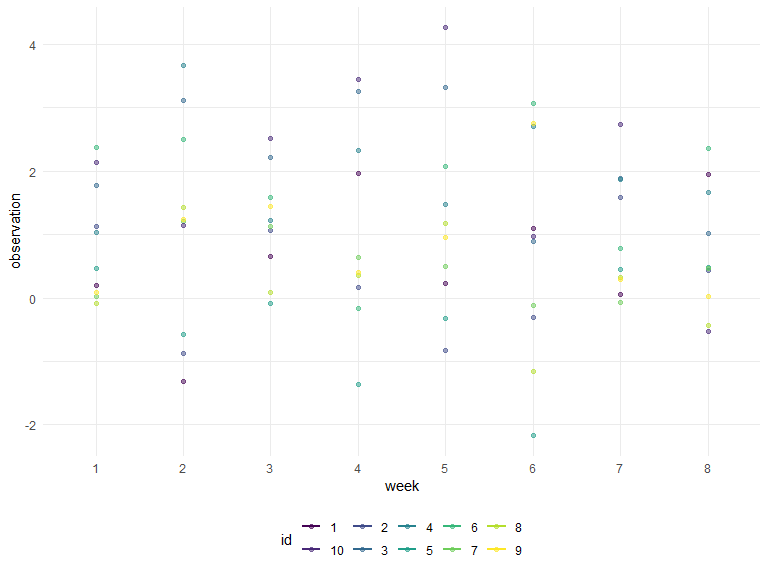
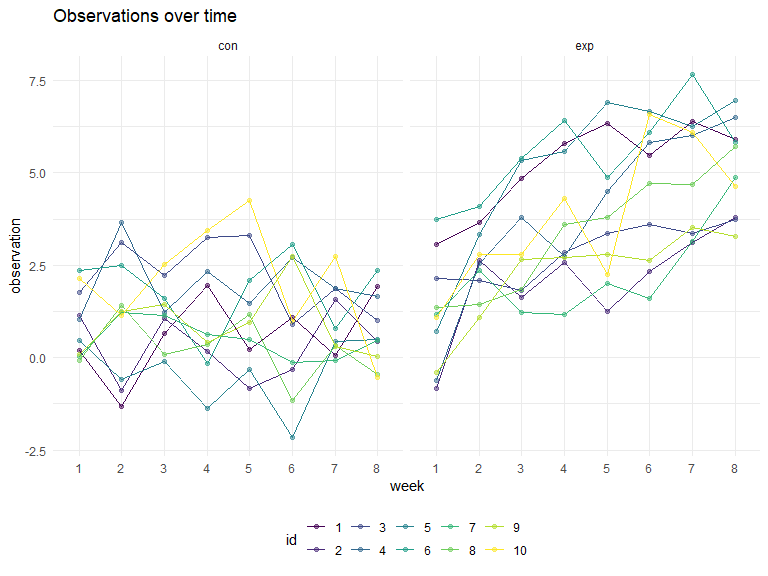
fixed code for graph so only one graph appeared with ID ordered and converted to a factor

diff --git a/p8105_hw5_kq2127.md b/p8105_hw5_kq2127.md
@@ -222,17 +222,17 @@ output
 # Problem 2
 
 ``` r
-pb2_df = list.files(path = "./data/",
-                    pattern = "*.csv",
-                    full.names = TRUE) 
-
-op = 
-    map_df(pb2_df, read_csv, .id = "input") %>% 
-    rename(id = input) %>% 
-    mutate(
-      id = as.numeric(id),
-      arm = ifelse(id <= 10, "con", "exp"),
-      id = recode(id,
+pb2_df = 
+  list.files(
+    path = "./data/",
+    pattern = "*.csv",
+    full.names = TRUE) %>% 
+  map_df(read_csv, .id = "input") %>% 
+  rename(id = input) %>% 
+  mutate(
+    id = as.numeric(id),
+    arm = ifelse(id <= 10, "con", "exp"),
+    id = recode(id,
        '11' = 1,
        '12' = 2,
        '13' = 3,
@@ -243,12 +243,12 @@ op =
        '18' = 8,
        '19' = 9,
        '20' = 10)) %>% 
-    pivot_longer(
-      week_1:week_8,
-      names_to = "week",
-      names_prefix = "week_",
-      values_to = "observation") %>%
-    select(id, arm, everything())
+  pivot_longer(
+    week_1:week_8,
+    names_to = "week",
+    names_prefix = "week_",
+    values_to = "observation") %>%
+  select(id, arm, everything())
 ```
 
     ## Parsed with column specification:
@@ -473,25 +473,13 @@ op =
     ## )
 
 ``` r
-op %>% 
-  filter(arm == "con") %>% 
-  mutate (id = as.character(id)) %>% 
-  ggplot(aes(x = week, y = observation, color = id)) + 
-  geom_point(alpha =.5) + geom_smooth(se = FALSE) 
+pb2_df %>% 
+  mutate (id = as.factor(id)) %>% 
+  ggplot(aes(x = week, y = observation, color = id, group = id)) + 
+  geom_point(alpha =.5) +
+  geom_line() +
+  facet_grid(~arm) +
+  ggtitle("Observations over time") 
 ```
-
-    ## `geom_smooth()` using method = 'loess' and formula 'y ~ x'
 
 <img src="p8105_hw5_kq2127_files/figure-gfm/unnamed-chunk-5-1.png" width="90%" />
-
-``` r
-op %>% 
-  filter(arm == "exp") %>% 
-  mutate (id = as.character(id)) %>% 
-  ggplot(aes(x = week, y = observation, color = id)) + 
-  geom_point(alpha =.5) + geom_smooth(se = FALSE) 
-```
-
-    ## `geom_smooth()` using method = 'loess' and formula 'y ~ x'
-
-<img src="p8105_hw5_kq2127_files/figure-gfm/unnamed-chunk-5-2.png" width="90%" />
